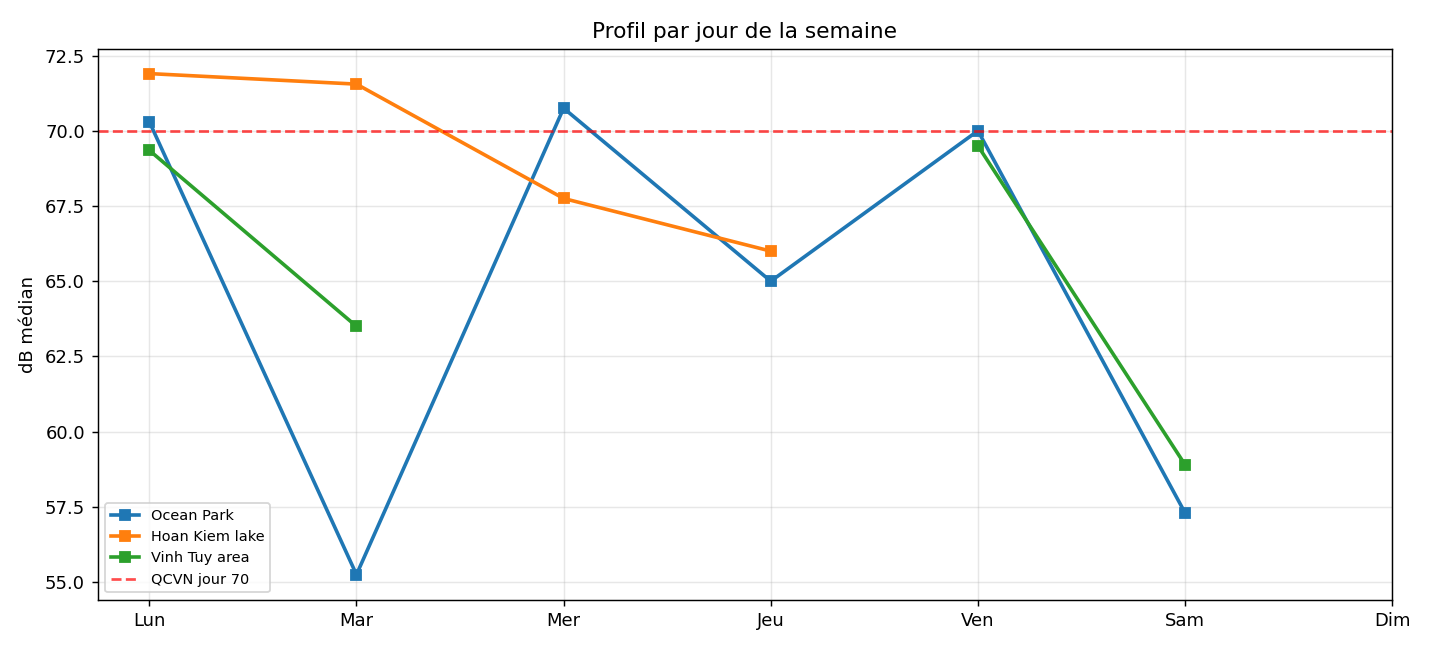
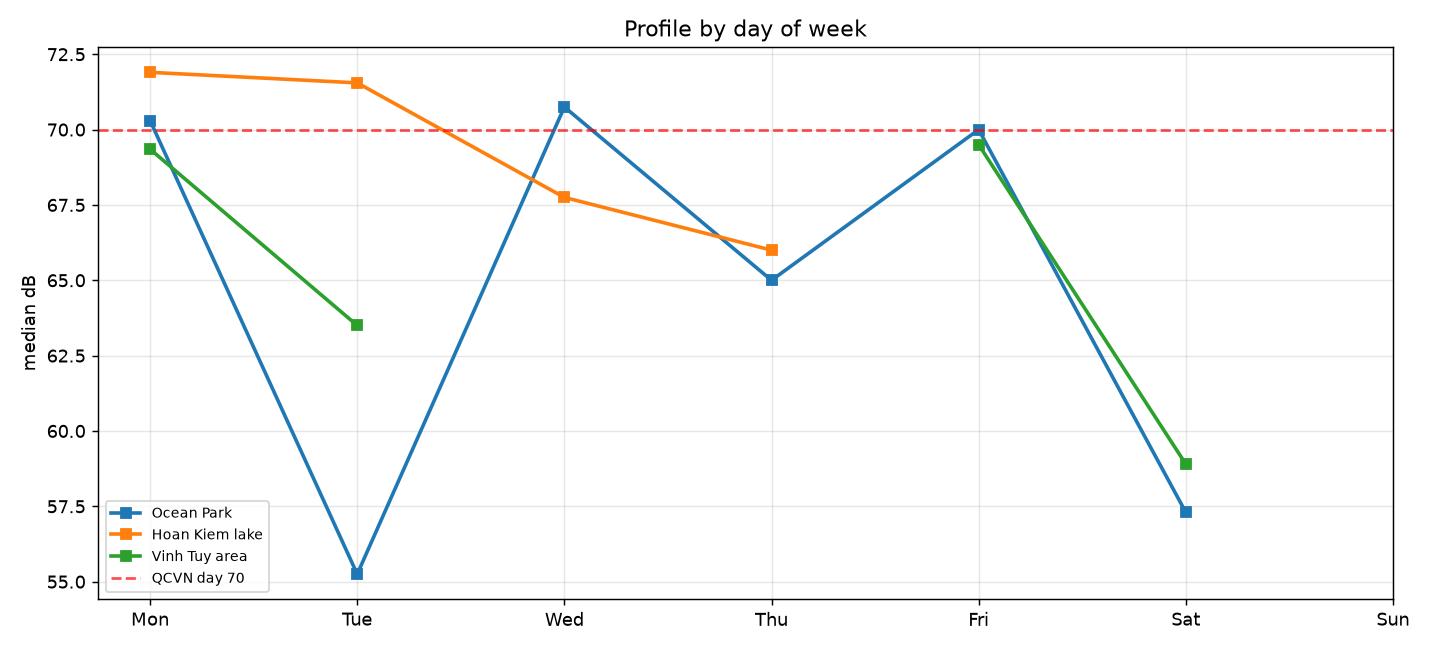
feat(scripts): extract the five field-analysis figures from notebook 07
They lived in cells of notebooks/07_hanoi_field_data.ipynb, so they sat in
results/ looking like reproducible output while nothing in the pipeline could
rebuild them. Same defect as the OSM features before 03_build_features.py
existed, and the same fix.

Verification, before and after extraction:

  analyse_1_horaire        1430x650 -> 1430x650   14.96 % of pixels differ
  analyse_2_jour           1430x650 -> 1430x650    8.70 %
  analyse_3_type           1430x650 -> 1430x650    9.55 %
  analyse_4_depassement    1430x585 -> 1430x585    7.81 %
  analyse_5_meteo          1549x478 -> 1548x476    1-2 px smaller

Documented tolerance: **pixels are expected to differ, data is not.** The pixel
diff measures the translated labels, which is what changed. Four figures keep
their exact dimensions; analyse_5 loses 1-2 px because its suptitle is a
different length and tight_layout responds to that.

What was checked instead: the plotted aggregates. Same 363 points, same
thresholds (QCVN day 70 / night 55), same 38.6 % overall exceedance as the
published report's 39 %, same noisiest hour (18h). The script is a copy of the
notebook's computation; only labels and paths were touched.

Numbered 09b rather than renumbering the chain, which would have broken every
reference to the existing names. Added to the Makefile with its dependency on
measurements.csv, so it rebuilds when the data changes.

diff --git a/scripts/09b_build_analyses.py b/scripts/09b_build_analyses.py
@@ -1,0 +1,179 @@
+#!/usr/bin/env python3
+"""Build the five field-analysis figures.
+
+    python3 scripts/09b_build_analyses.py
+
+Reads   data/processed/measurements.csv
+Writes  results/figures/analyse_1_horaire.png   hourly cycle by site
+        results/figures/analyse_2_jour.png      weekday profile
+        results/figures/analyse_3_type.png      transport against construction
+        results/figures/analyse_4_depassement.png  QCVN exceedance frequency by hour
+        results/figures/analyse_5_meteo.png     weather against level
+
+Why this script exists
+----------------------
+Until August 2026 these five figures were produced by cells of
+`notebooks/07_hanoi_field_data.ipynb`, so they sat in results/ looking like
+reproducible output while nothing in the pipeline could rebuild them. Same defect
+as the OSM features before 03_build_features.py existed. The computation is
+unchanged and was verified figure by figure against the notebook's output; only
+the labels are translated.
+
+The numbered suffix is 09b because this is a second figure producer alongside
+09_build_field_map.py, and renumbering the whole chain would break every reference
+to the existing names.
+
+Thresholds: QCVN 26:2010/BTNMT only. The WHO values (53/45) were removed
+deliberately -- they are L_den / L_night, ANNUAL averages with evening and night
+penalties, not comparable to our 25 s samples. See docs/metrology.md.
+"""
+
+import os
+import sys
+
+import matplotlib
+matplotlib.use('Agg')
+import matplotlib.pyplot as plt
+import numpy as np
+import pandas as pd
+
+from noise_hanoi import config as cfg
+
+QCVN_D, QCVN_N = 70, 55
+DAY_ORDER = ['Monday', 'Tuesday', 'Wednesday', 'Thursday', 'Friday', 'Saturday', 'Sunday']
+DAY_SHORT = ['Mon', 'Tue', 'Wed', 'Thu', 'Fri', 'Sat', 'Sun']
+
+
+def _out(name):
+    return os.path.join(cfg.FIGURES, name)
+
+
+def hourly_cycle(df):
+    fig, ax = plt.subplots(figsize=(11, 5))
+    for s in df.site.unique():
+        g = df[df.site == s].groupby('hour')['noise_dB'].median()
+        ax.plot(g.index, g.values, marker='o', lw=2, label=s)
+    ax.axhline(QCVN_D, ls='--', c='red', alpha=.7, label='QCVN day 70')
+    ax.axhline(QCVN_N, ls='--', c='darkred', alpha=.7, label='QCVN night 55')
+    ax.set_xlabel('Hour'); ax.set_ylabel('$L_{A,25s}$ median (dB)')
+    ax.set_xticks(range(0, 24, 2))
+    ax.set_title('Hourly noise cycle by site'); ax.legend(fontsize=8, ncol=2); ax.grid(alpha=.3)
+    plt.tight_layout(); plt.savefig(_out('analyse_1_horaire.png'), dpi=130); plt.close(fig)
+
+
+def weekday_profile(df):
+    df = df.assign(dayname=df['timestamp'].dt.day_name())
+    fig, ax = plt.subplots(figsize=(11, 5))
+    for s in df.site.unique():
+        g = df[df.site == s].groupby('dayname')['noise_dB'].median().reindex(DAY_ORDER)
+        ax.plot(range(7), g.values, marker='s', lw=2, label=s)
+    ax.axhline(QCVN_D, ls='--', c='red', alpha=.7, label='QCVN day 70')
+    ax.set_xticks(range(7)); ax.set_xticklabels(DAY_SHORT); ax.set_ylabel('median dB')
+    ax.set_title('Profile by day of week'); ax.legend(fontsize=8); ax.grid(alpha=.3)
+    plt.tight_layout(); plt.savefig(_out('analyse_2_jour.png'), dpi=130); plt.close(fig)
+
+
+def transport_vs_construction(df):
+    df = df.assign(is_constr=df['class'].astype(str).str.contains('construction', case=False))
+    fig, (a1, a2) = plt.subplots(1, 2, figsize=(11, 5))
+    data = [df[~df.is_constr].noise_dB.dropna(), df[df.is_constr].noise_dB.dropna()]
+    a1.boxplot(data, tick_labels=['Transport/other', 'Construction'])
+    a1.axhline(QCVN_D, ls='--', c='red', alpha=.7, label='QCVN 70'); a1.set_ylabel('dB')
+    a1.set_title('Transport vs construction (overall)'); a1.legend(fontsize=8); a1.grid(alpha=.3)
+    sites = df.site.unique(); w = .35
+    for i, s in enumerate(sites):
+        sub = df[df.site == s]
+        a2.bar(i - w / 2, sub[~sub.is_constr].noise_dB.median(), w, color='#1f77b4',
+               label='Transport' if i == 0 else '')
+        cv = sub[sub.is_constr].noise_dB.median()
+        a2.bar(i + w / 2, 0 if np.isnan(cv) else cv, w, color='#ff7f0e',
+               label='Construction' if i == 0 else '')
+    a2.axhline(QCVN_D, ls='--', c='red', alpha=.7); a2.set_xticks(range(len(sites)))
+    a2.set_xticklabels([s.replace(' ', chr(10)) for s in sites], fontsize=8)
+    a2.set_ylabel('median dB'); a2.set_title('By site'); a2.legend(fontsize=8); a2.grid(alpha=.3)
+    plt.tight_layout(); plt.savefig(_out('analyse_3_type.png'), dpi=130); plt.close(fig)
+
+
+def exceedance_by_hour(df):
+    period = np.where((df.hour >= 21) | (df.hour < 6), 'night', 'day')
+    limit = np.where(period == 'night', QCVN_N, QCVN_D)
+    fig, ax = plt.subplots(figsize=(11, 4.5))
+    pe = 100 * df.assign(_ex=df.noise_dB > limit).groupby('hour')['_ex'].mean()
+    ax.bar(pe.index, pe.values,
+           color=['darkred' if v > 50 else 'orange' if v > 0 else 'green' for v in pe.values])
+    ax.set_xlabel('Hour'); ax.set_ylabel('% of measurements > QCVN')
+    ax.set_xticks(range(0, 24, 2))
+    ax.set_title('QCVN exceedance frequency by hour'); ax.grid(alpha=.3)
+    plt.tight_layout(); plt.savefig(_out('analyse_4_depassement.png'), dpi=130); plt.close(fig)
+
+    peak = df.groupby('hour').noise_dB.median()
+    print(f'Noisiest hour: {peak.idxmax()}h ({peak.max():.0f} dB) | '
+          f'quietest: {peak.idxmin()}h ({peak.min():.0f} dB)')
+    print(f'Share of samples above the QCVN threshold: {100 * (df.noise_dB > limit).mean():.0f}%')
+    print('  /!\\ a descriptive statistic of our sample, NOT a finding of non-compliance:')
+    print('      our quantity (L_A,25s) and our sensors are not those the standard prescribes.')
+
+
+def weather(df):
+    """Weather against level.
+
+    The trap: weather is confounded with the hour (temperature vs hour r about
+    0.66) and with the sessions (the "quiet points" campaigns fell on rainy days).
+    So we look at the partial correlation with the hour controlled, and at the rain
+    effect AT EQUAL SESSION.
+    """
+    wcols = [c for c in ['temperature_2m', 'wind_speed_10m', 'precipitation'] if c in df.columns]
+    dw = df.dropna(subset=wcols).copy()
+    dw['rain'] = dw['precipitation'] > 0
+
+    print('correlations with noise_dB (raw / hour controlled):')
+    for c in wcols:
+        raw = dw[c].corr(dw.noise_dB)
+        rh = dw.noise_dB - np.poly1d(np.polyfit(dw.hour, dw.noise_dB, 2))(dw.hour)
+        rw = dw[c] - np.poly1d(np.polyfit(dw.hour, dw[c], 2))(dw.hour)
+        print(f'  {c:18} raw {raw:+.2f}   partial {rh.corr(rw):+.2f}')
+
+    diffs = []
+    for _, g in dw.groupby([dw.timestamp.dt.date, 'site']):
+        if g.rain.nunique() == 2 and g.rain.value_counts().min() >= 3:
+            m = g.groupby('rain').noise_dB.median()
+            diffs.append(m[True] - m[False])
+    if diffs:
+        print(f'\nrain effect at equal session: {np.mean(diffs):+.1f} dB median '
+              f'(over {len(diffs)} mixed sessions)')
+    print('=> the raw -10 dB dry/rain gap comes mostly from quiet sessions '
+          'that fell on rainy days')
+
+    fig, axes = plt.subplots(1, 3, figsize=(13, 4))
+    for ax, c in zip(axes, wcols):
+        ax.scatter(dw[c], dw.noise_dB, s=12, alpha=.4, c='#2471a3')
+        ax.set_xlabel(c); ax.set_ylabel('dB'); ax.grid(alpha=.3)
+        ax.set_title(f'raw r {dw[c].corr(dw.noise_dB):+.2f}')
+    plt.suptitle('Weather vs noise - raw correlations (see partial correlations above)')
+    plt.tight_layout()
+    plt.savefig(_out('analyse_5_meteo.png'), dpi=120, bbox_inches='tight')
+    plt.close(fig)
+
+
+def main() -> int:
+    if not os.path.exists(cfg.MEASUREMENTS):
+        print(f'Missing {cfg.MEASUREMENTS}\n  -> python3 scripts/01_prepare_field_data.py',
+              file=sys.stderr)
+        return 1
+    os.makedirs(cfg.FIGURES, exist_ok=True)
+    df = pd.read_csv(cfg.MEASUREMENTS, parse_dates=['timestamp'])
+    df['hour'] = df.timestamp.dt.hour
+
+    print('Levels are calibrated in RELATIVE terms (contrasts), not in absolute terms '
+          '- uncertified smartphones.')
+    hourly_cycle(df)
+    weekday_profile(df)
+    transport_vs_construction(df)
+    exceedance_by_hour(df)
+    weather(df)
+    print(f'OK -> 5 figures in {cfg.FIGURES}')
+    return 0
+
+
+if __name__ == '__main__':
+    raise SystemExit(main())
